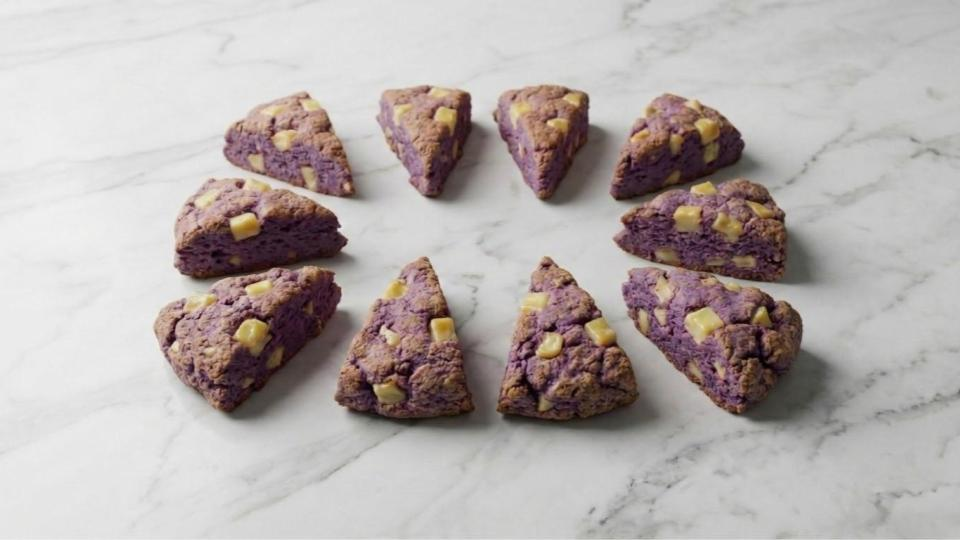
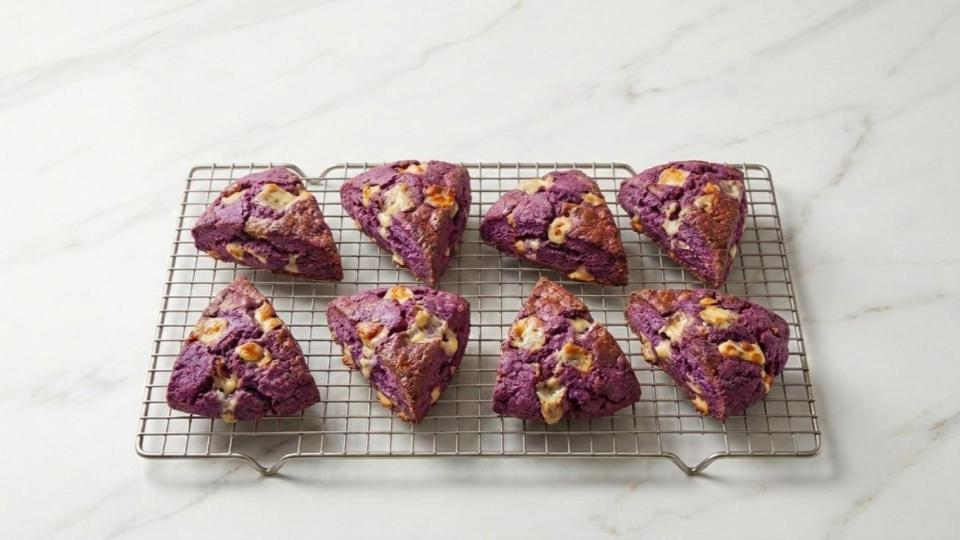
feat: add page transition toast and dot indicator

diff --git a/dubu_app.js b/dubu_app.js
@@ -1356,6 +1356,27 @@ function bindBookshelfWheelEvent() {
     frame.addEventListener('wheel', handleBookshelfWheel, { passive: false });
 }
 
+function goToBookshelfPage(page) {
+    const sorted = [...PROJECTS].sort((a, b) => a.id - b.id);
+    const totalPages = Math.ceil(sorted.length / 16);
+    if (page < 1) page = 1;
+    if (page > totalPages) page = totalPages;
+
+    if (bookshelfState.currentPage !== page) {
+        bookshelfState.currentPage = page;
+        renderBookshelf();
+    }
+}
+
+function triggerBookshelfToast(currentPage, totalPages) {
+    const toast = document.getElementById('bookshelf-toast');
+    if (!toast) return;
+    toast.textContent = `PAGE ${currentPage} / ${totalPages}`;
+    toast.classList.remove('show');
+    void toast.offsetWidth; // Reflow 트리거하여 애니메이션 리셋
+    toast.classList.add('show');
+}
+
 function scrollBookshelf(direction) {
     const sorted = [...PROJECTS].sort((a, b) => a.id - b.id);
     const totalPages = Math.ceil(sorted.length / 16);
@@ -1448,17 +1469,27 @@ function renderBookshelf() {
     const isFirstPage = bookshelfState.currentPage === 1;
     const isLastPage = bookshelfState.currentPage === totalPages;
 
+    // 페이지 이동 닷(dot) 인디케이터 생성
+    let dotsHtml = '';
+    for (let i = 1; i <= totalPages; i++) {
+        const isActive = i === bookshelfState.currentPage;
+        dotsHtml += `<span class="shelf-dot ${isActive ? 'active' : ''}" onclick="goToBookshelfPage(${i})" title="Go to Page ${i}"></span>`;
+    }
+
     section.innerHTML = `
         <div class="bookshelf-wrapper">
             <!-- 헤더 -->
             <div class="bookshelf-header">
                 <div class="bookshelf-tag">RECIPE ARCHIVE</div>
                 <h2 class="serif bookshelf-title">실패없는 베이킹노트</h2>
-                <p class="bookshelf-hint">🚪 앤티크 양옆 화살표를 눌러 서가 페이지를 넘겨보세요</p>
+                <p class="bookshelf-hint">🚪 앤티크 양옆 화살표를 누르거나 휠을 굴려 페이지를 넘겨보세요</p>
             </div>
 
             <!-- 책장 무대 -->
-            <div class="bookshelf-scene">
+            <div class="bookshelf-scene" style="position: relative;">
+                <!-- 중앙 큰 페이지 오버레이 토스트 -->
+                <div id="bookshelf-toast" class="bookshelf-toast"></div>
+
                 <!-- 왼쪽 화살표 (1페이지면 비활성) -->
                 <button class="shelf-nav-btn shelf-nav-left left-arrow ${isFirstPage ? 'disabled' : ''}" 
                         onclick="scrollBookshelf('left')" 
@@ -1499,8 +1530,9 @@ function renderBookshelf() {
                 </button>
             </div>
 
-            <!-- 페이지 인디케이터 -->
+            <!-- 페이지 인디케이터 및 닷 리스트 -->
             <div class="shelf-page-info serif">- PAGE ${bookshelfState.currentPage} / ${totalPages} -</div>
+            <div class="shelf-dots-container">${dotsHtml}</div>
 
             <!-- 푸터 -->
             <footer style="margin-top:25px; text-align:center; opacity:0.4;">
@@ -1510,10 +1542,11 @@ function renderBookshelf() {
         </div>
     `;
 
-    // 강제 정렬 동기화 및 휠 리스너 바인딩
+    // 강제 정렬 동기화, 휠 리스너 바인딩, 페이지 전환 토스트 연출
     setTimeout(() => {
         recalculateBookshelfBounds();
         bindBookshelfWheelEvent();
+        triggerBookshelfToast(bookshelfState.currentPage, totalPages);
     }, 50);
 }
 

diff --git a/style_portal.css b/style_portal.css
@@ -1938,6 +1938,87 @@ footer {
     letter-spacing: 0.5px;
 }
 
+/* 페이지 전환 금빛 닷 인디케이터 */
+.shelf-dots-container {
+    display: flex;
+    justify-content: center;
+    gap: 12px;
+    margin-top: 12px;
+}
+.shelf-dot {
+    width: 10px;
+    height: 10px;
+    border-radius: 50%;
+    background: rgba(255, 255, 255, 0.15);
+    border: 1px solid rgba(212, 175, 55, 0.4);
+    cursor: pointer;
+    transition: all 0.4s cubic-bezier(0.16, 1, 0.3, 1);
+    box-shadow: inset 0 1px 3px rgba(0,0,0,0.5);
+}
+.shelf-dot.active {
+    background: #d4af37;
+    border-color: #ffd57e;
+    transform: scale(1.35);
+    box-shadow: 
+        0 0 10px rgba(212, 175, 55, 0.8), 
+        0 0 20px rgba(212, 175, 55, 0.4), 
+        inset 0 1px 1px rgba(255,255,255,0.4);
+}
+.shelf-dot:hover:not(.active) {
+    background: rgba(212, 175, 55, 0.5);
+    border-color: rgba(212, 175, 55, 0.8);
+    transform: scale(1.15);
+}
+
+/* 책장 중앙 페이지 번호 크게 토스트 표시 오버레이 */
+.bookshelf-toast {
+    position: absolute;
+    top: 50%;
+    left: 50%;
+    transform: translate(-50%, -50%);
+    background: linear-gradient(135deg, rgba(38, 22, 14, 0.96) 0%, rgba(15, 8, 4, 0.98) 100%);
+    border: 2px solid #d4af37;
+    color: #ffd57e;
+    padding: 20px 45px;
+    font-family: 'Noto Serif KR', serif;
+    font-size: 2.2rem;
+    font-weight: 800;
+    letter-spacing: 4px;
+    border-radius: 16px;
+    /* 고풍스러운 황금 그림자 & 이중 장식 느낌 */
+    box-shadow: 
+        0 25px 60px rgba(0,0,0,0.9), 
+        0 0 35px rgba(212, 175, 55, 0.45), 
+        inset 0 0 20px rgba(212, 175, 55, 0.3);
+    pointer-events: none;
+    opacity: 0;
+    z-index: 1000;
+    display: none;
+}
+.bookshelf-toast.show {
+    display: block;
+    animation: toastFadeInOut 1.1s cubic-bezier(0.25, 1, 0.5, 1) forwards;
+}
+
+@keyframes toastFadeInOut {
+    0% {
+        opacity: 0;
+        transform: translate(-50%, -50%) scale(0.85);
+    }
+    15% {
+        opacity: 1;
+        transform: translate(-50%, -50%) scale(1.06);
+    }
+    70% {
+        opacity: 1;
+        transform: translate(-50%, -50%) scale(1);
+    }
+    100% {
+        opacity: 0;
+        transform: translate(-50%, -50%) scale(0.96);
+    }
+}
+
 /* 반응형 */
 @media (max-width: 768px) {
     .bookshelf-wrapper { padding: 0 16px 20px; }
